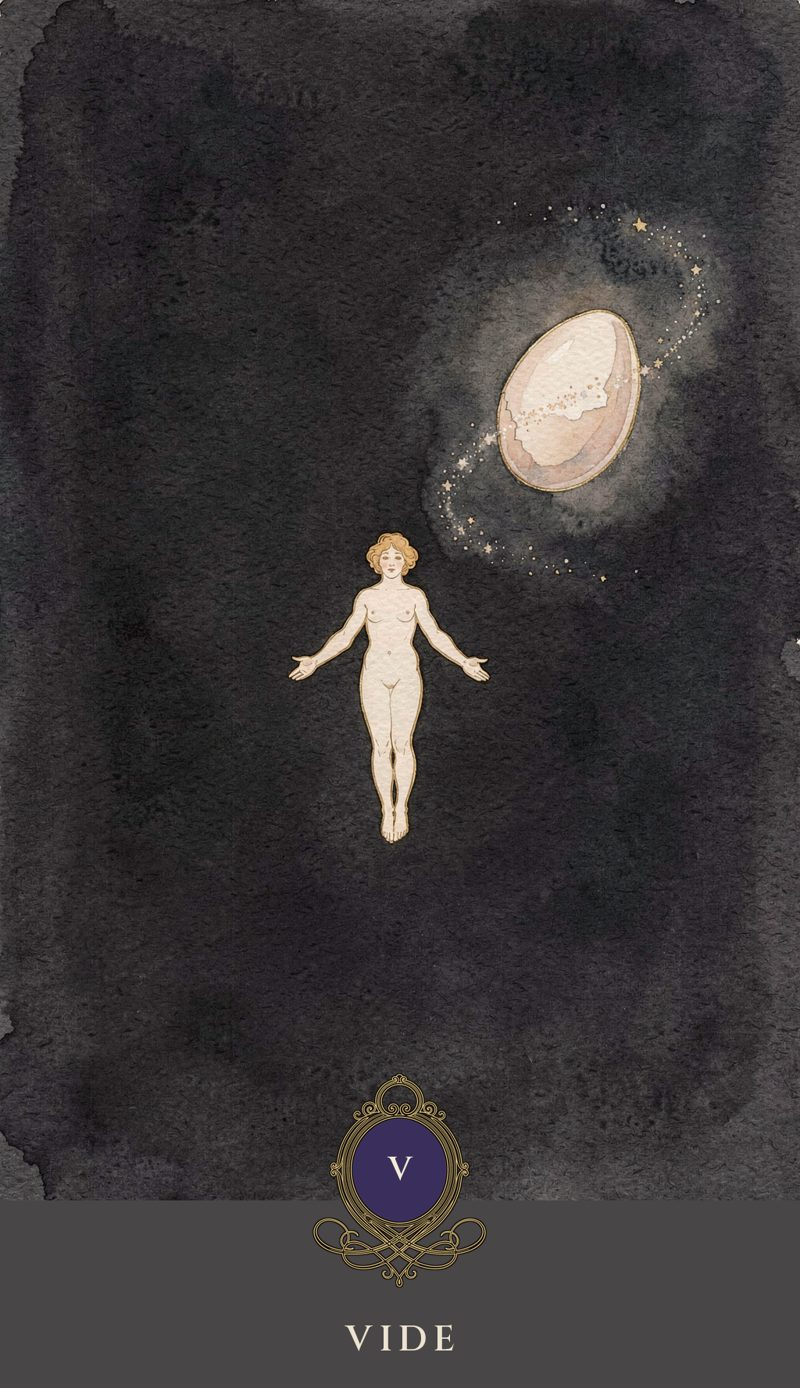
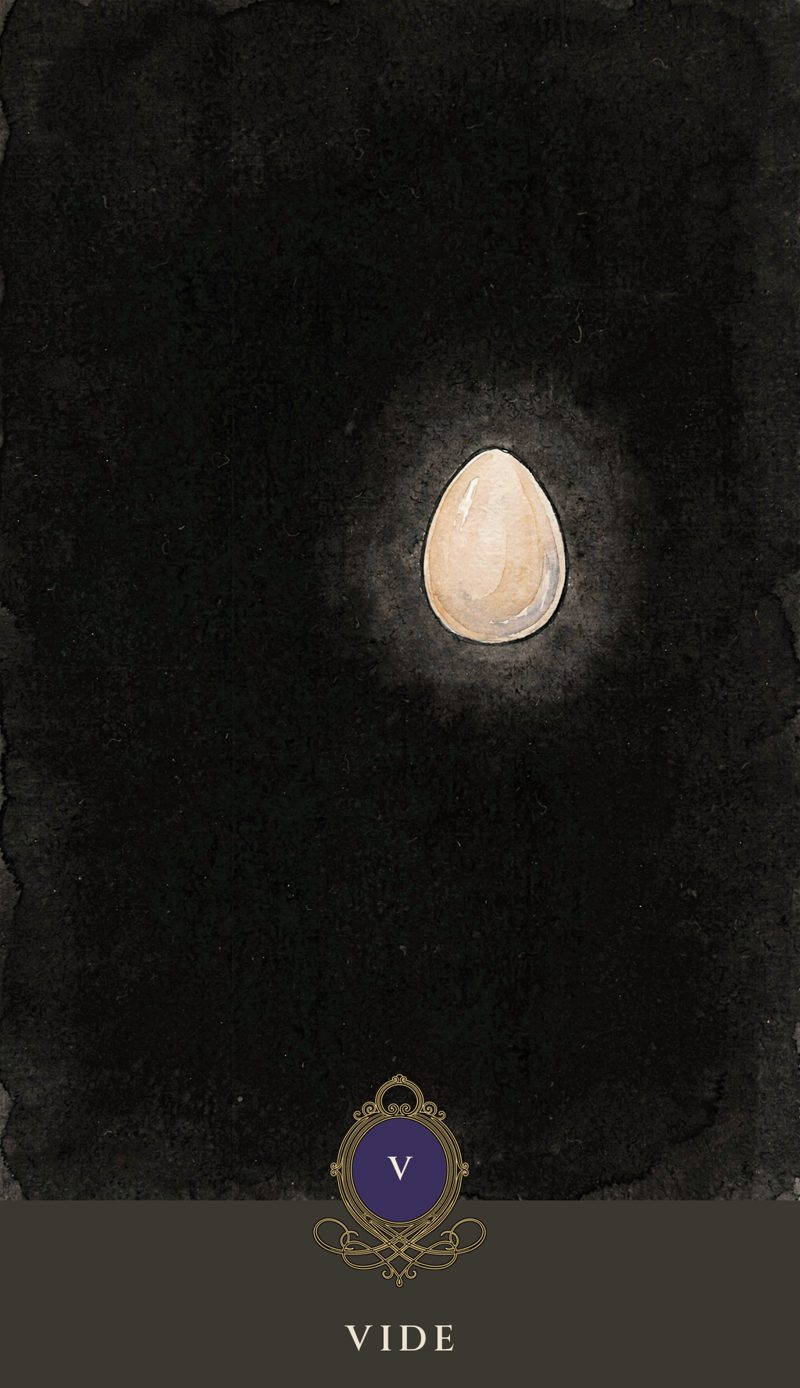
V · Vide : refonte sur fond noir (noir + œuf seuls, sans cadre) et lecture réécrite
- nouveau master v5 (780347) : champ de noir à l'encre, un seul œuf de lumière,
  halo serré, aucun cadre ni marge ; l'ancienne carte (figure nue) est archivée
- lecture de l'arcane 5 réécrite (253 mots, 3 temps) : le champ noir, l'œuf,
  l'intervalle ; SYMBOLES_REQUIS[5] = vide/noir/œuf/lumière
- Roi de Terre : « des gens sur qui tu peux compter » (accord)
- cartouche, image d'app (05.jpg) et miniature (05.webp) regénérés

diff --git a/tests/test_lectures.py b/tests/test_lectures.py
@@ -31,7 +31,7 @@ SYMBOLES_REQUIS = {
     3: ["ruban", "mains", "robe", "motif", "bassin", "feu", "eau"],
     4: ["temple", "colonnes", "aigle", "rivière", "eau", "montagnes",
         "plaines", "ciel"],
-    5: ["vide", "nue", "bras", "œuf", "lumière", "étoile", "spirale"],
+    5: ["vide", "noir", "œuf", "lumière"],
     6: ["mains", "colombes", "serpent", "soleil", "collines", "arbre",
         "fruits"],
     7: ["avance", "flammes", "sphinx", "croissants", "étoil"],
